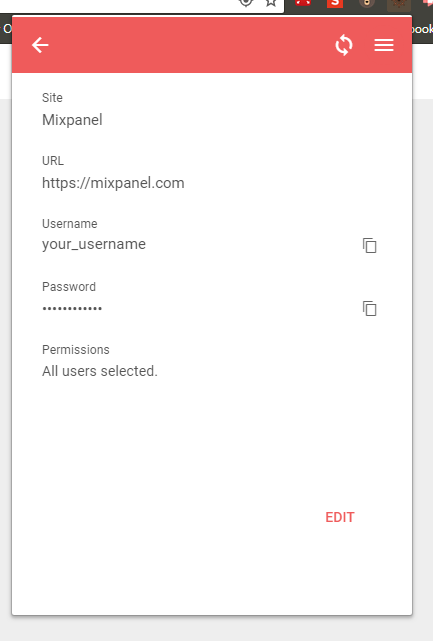
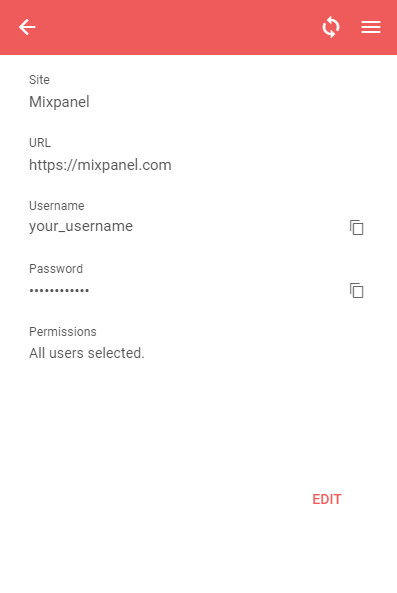
Css fixes

diff --git a/portfolio/vault/index.html b/portfolio/vault/index.html
@@ -24,141 +24,188 @@
 				</div>
 				<div class="half">
 					<div class="img-container">
-						<img class="wow fadeInLeft" id="image1" src="/portfolio/vault/img/main.PNG">
-						<img class="wow fadeInLeft" id="image2" data-wow-delay="1s" src="/portfolio/vault/img/menu2.PNG">
+						<img class="wow fadeInLeft screenshot" id="image1" src="/portfolio/vault/img/menu.PNG">
+						<img class="wow fadeInLeft screenshot" id="image2" data-wow-delay="1s" src="/portfolio/vault/img/menu2.PNG">
 					</div>
 				</div>
 			</div>
 		</div>
-		<div class="section">
-			<div class="col-xs-12 col-md-4">
-				<div class="feature-container">
-					
+		<div class="section center-contents">
+			<div class="row">
+				<div class="col-xs-12 col-md-4">
+					<div class="feature-container center-contents">
+						<img class="icon" src="/portfolio/vault/img/sync.svg">
+						<img class="screenshot wow flipInX" data-wow-delay="500ms" src="/portfolio/vault/img/menu.PNG">
+						<span>Real Time Syncing</span>
+					</div>
+				</div>
+
+				<div class="col-xs-12 col-md-4">
+					<div class="feature-container center-contents">
+						<img class="icon" src="/portfolio/vault/img/autofill.svg">
+						<img class="screenshot wow flipInX" data-wow-delay="1000ms" src="/portfolio/vault/img/filled.PNG">
+						<span>Auto Form Filling</span>
+					</div>
+				</div>
+
+				<div class="col-xs-12 col-md-4">
+					<div class="feature-container center-contents">
+						<img class="icon" src="/portfolio/vault/img/team.svg">
+						<img class="screenshot wow flipInX" data-wow-delay="1500ms" src="/portfolio/vault/img/permission select.PNG">
+						<span>Permission Control</span>
+					</div>
 				</div>
 			</div>
 		</div>
-		<script src="/vendor/fullpage/jquery.fullpage.min.js"></script>
-		<script src="/vendor/animate/wow.min.js"></script>
-		<script>
-			new WOW().init();
-			$(document).ready(function () {
-				$('#page').fullpage();
-			});
-		</script>
+		<div class="section center-contents">
 
-		<style>
-			body {
-				margin: 0;
-			}
+		</div>
+		<div class="section"></div>
+	</div>
+	<script src="/vendor/fullpage/jquery.fullpage.min.js"></script>
+	<script src="/vendor/animate/wow.min.js"></script>
+	<script>
+		new WOW().init();
+	</script>
 
-			.background {
-				/* background: #8e44ad; */
-				/* background: -webkit-linear-gradient(to left, #8e44ad, #c0392b); */
-				/* background: linear-gradient(to left, #8e44ad, #c0392b); */
-				background-image: url('/portfolio/vault/img/flopped.svg');
-				background-attachment: scroll;
-				background-repeat: no-repeat;
-				background-size: cover;
-				background-position: center;
-				height: auto !important;
-				/* color: rgb(239, 91, 91); */
-				color: rgb(250, 250, 250);
-			}
+	<style>
+		body {
+			margin: 0;
+		}
 
-			.section {
-				background: transparent;
-			}
+		.background {
+			/* background: #8e44ad; */
+			/* background: -webkit-linear-gradient(to left, #8e44ad, #c0392b); */
+			/* background: linear-gradient(to left, #8e44ad, #c0392b); */
+			background-image: url('/portfolio/vault/img/flopped.svg');
+			background-attachment: scroll;
+			background-repeat: no-repeat;
+			background-size: cover;
+			background-position: center;
+			height: auto !important;
+			/* color: rgb(239, 91, 91); */
+			color: rgb(250, 250, 250);
+		}
 
+		.section {
+			background: transparent;
+			padding: 0 10%;
+			min-height: 100vh;
+		}
+
+		.main-container {
+			display: flex;
+			justify-content: space-evenly;
+			align-items: center;
+			min-height: 100vh;
+			width: 100%;
+			padding: 10vh 0;
+			text-align: center;
+		}
+
+		.main-container span {
+			font-size: 8rem;
+			letter-spacing: -0.6rem;
+			font-weight: 600;
+		}
+
+		.main-container p {
+			font-size: 1.8rem;
+		}
+
+		.img-container {
+			height: auto;
+			text-align: left;
+			width: 100%;
+		}
+
+		.half {
+			width: 40%;
+			position: relative;
+		}
+
+		.half img {
+			width: 40vh;
+			max-width: 30vw;
+			position: relative;
+		}
+
+		img.screenshot {
+			border-radius: 5px;
+			box-shadow: 4px 4px 13px 9px rgba(50, 50, 50, 0.3);
+		}
+
+		#image1 {
+			left: 0;
+		}
+
+		#image2 {
+			margin-top: -50%;
+			left: 15%;
+		}
+
+		.feature-container {
+			flex-direction: column;
+			font-size: 1.4rem
+		}
+
+		.feature-container .screenshot {
+			width: 50%;
+			margin: 3vh 0;
+		}
+
+		.feature-container .icon {
+			width: 30%;
+			opacity: 0.7;
+		}
+
+		@media (max-width: 767px) {
 			.main-container {
-				display: flex;
-				justify-content: space-evenly;
-				align-items: center;
-				height: 100vh;
-				padding: 10vh 10%;
-				width: 100%;
-				text-align: center;
+				flex-direction: column-reverse;
 			}
 
 			.main-container span {
-				font-size: 8rem;
-				letter-spacing: -0.6rem;
-				font-weight: 600;
+				margin-top: 3vh;
+				font-size: 3rem;
+				letter-spacing: 0;
 			}
 
 			.main-container p {
-				font-size: 1.8rem;
-			}
-
-			.img-container {
-				height: 50vh;
-				widows: 100%;
+				font-size: 1.4rem;
 			}
 
 			.half {
-				width: 40%;
-				position: relative;
+				width: 100%;
+				display: flex;
+				flex-direction: column;
+				align-items: center;
 			}
 
 			.half img {
-				position: absolute;
 				border-radius: 5px;
 				box-shadow: 4px 4px 13px 9px rgba(50, 50, 50, 0.3);
-				width: 40vh;
-				max-width: 30vw;
+				width: 50vw;
+				max-width: 50vw;
 			}
 
 			#image1 {
-				top: -30%;
-				left: 0%;
+				left: -10%;
 			}
 
 			#image2 {
-				top: 35%;
-				left: 15%;
+				left: 5%;
 			}
 
-			@media (max-width: 767px) {
-				.main-container {
-					flex-direction: column-reverse;
-				}
-
-				.main-container span {
-					margin-top: 10vh;
-					font-size: 3rem;
-					letter-spacing: 0;
-				}
-
-				.main-container p {
-					font-size: 1.4rem;
-				}
-
-				.half {
-					width: 100%;
-					display: flex;
-					flex-direction: column;
-					align-items: center;
-				}
-
-				.half img {
-					position: absolute;
-					border-radius: 5px;
-					box-shadow: 4px 4px 13px 9px rgba(50, 50, 50, 0.3);
-					width: 50vw;
-					max-width: 50vw;
-				}
-
-				#image1 {
-					top: -10%;
-					left: 15%;
-				}
-
-				#image2 {
-					top: 35%;
-					left: 30%;
-				}
+			.img-container {
+				text-align: center;
 			}
 
-		</style>
+			.feature-container {
+				min-height: 100vh
+			}
+		}
+
+	</style>
 </body>
 
 </html>
